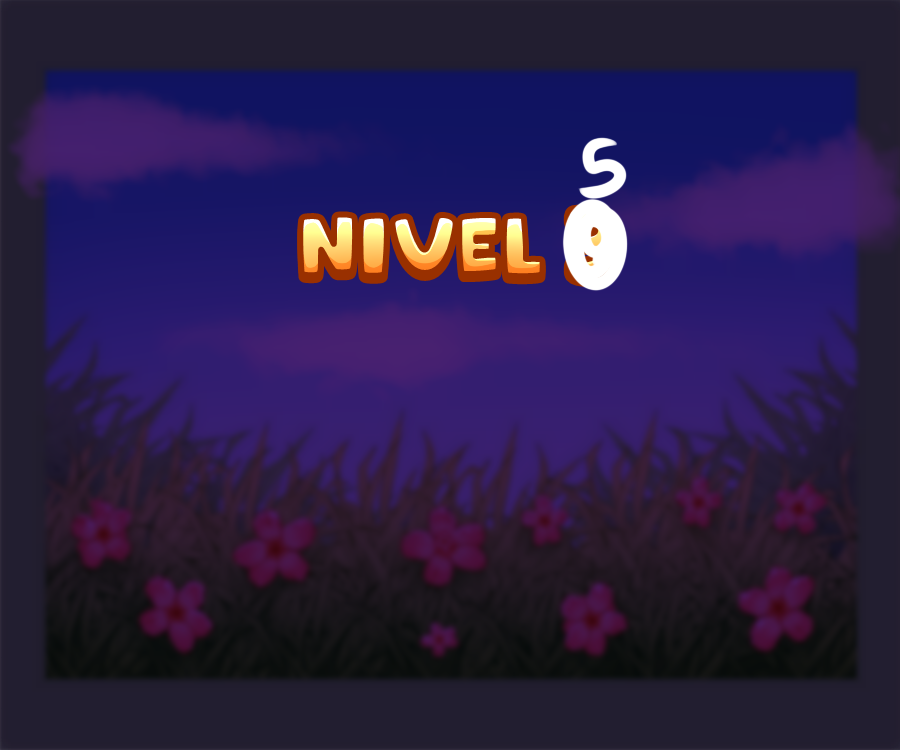
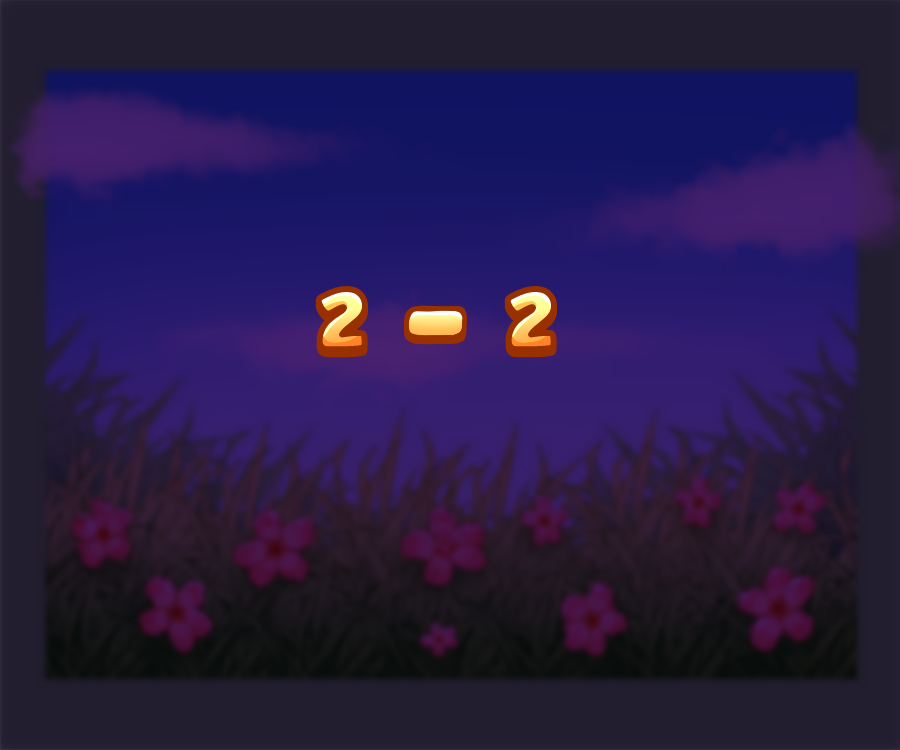
en casa ya nose

Changed region(s): [[0.3111, 0.184, 0.7156, 0.4907]]

diff --git a/src/scenes/guiaprimero.js b/src/scenes/guiaprimero.js
@@ -1,0 +1,92 @@
+import Button from "../scenes/Botones/button.js";
+import Phaser from 'phaser'
+import WebFontFile from './WebFontFile'
+
+export class guiaprimero extends Phaser.Scene {
+
+  constructor() {
+
+    super("guiauno");
+  }
+
+  init (data) {
+    this.score = data.score; 
+    this.nivel=data.nivel;
+  }
+
+    preload()
+    {
+      const fonts = new WebFontFile(this.load, 'Lilita One')
+      this.load.addFile(fonts)
+    }
+
+
+    create() {
+      //agregar if this.nivel para saber que imágen mostrar
+
+      this.add.image(this.cameras.main.centerX, this.cameras.main.centerY, 'fondotuto').setScale(0.83,1);
+      this.add.image(this.cameras.main.centerX, 260, 'tutorial').setScale(0.65,0.75);
+
+      this.add.text(this.cameras.main.centerX, 100, '¡IZA DESBLOQUEÓ UNA NUEVA FORMA PARA SU CAPA!', {
+        fontFamily: 'Lilita One',
+        fontSize: '21px',
+        color: '#F8E71C',
+        stroke: '#853106',
+        strokeThickness: 6,
+        shadow: { offsetX: 0, offsetY: 0, fill: false, blur: 6, stroke: false },
+        resolution: 2
+      }).setOrigin(0.5)
+
+      this.add.text(this.cameras.main.centerX, 180, 'AHORA IZA PUEDE INVOCAR UN ESCUDO', {
+        fontFamily: 'Lilita One',
+        fontSize: '18px',
+        color: '#F8E71C',
+        stroke: '#853106',
+        strokeThickness: 5,
+        shadow: { offsetX: 0, offsetY: 0, fill: false, blur: 6, stroke: false },
+        resolution: 2
+      }).setOrigin(0.5)
+      this.add.text(this.cameras.main.centerX, 240, 'PARA SORTEAR A LAS MOLESTAS AVISPAS', {
+        fontFamily: 'Lilita One',
+        fontSize: '18px',
+        color: '#F8E71C',
+        stroke: '#853106',
+        strokeThickness: 5,
+        shadow: { offsetX: 0, offsetY: 0, fill: false, blur: 6, stroke: false },
+        resolution: 2
+      }).setOrigin(0.5)
+      this.add.text(this.cameras.main.centerX, 290, 'USA LA TECLA E PARA ACTIVAR EL ESCUDO Y ASÍ VOLVERTE INMUNE', {
+        fontFamily: 'Lilita One',
+        fontSize: '18px',
+        color: '#F8E71C',
+        stroke: '#853106',
+        strokeThickness: 5,
+        shadow: { offsetX: 0, offsetY: 0, fill: false, blur: 6, stroke: false },
+        resolution: 2
+      }).setOrigin(0.5)
+      this.add.text(this.cameras.main.centerX, 350, 'LA HABILIDAD TIENE UN TIEMPO DE ENFRIAMIENTO', {
+        fontFamily: 'Lilita One',
+        fontSize: '18px',
+        color: '#F8E71C',
+        stroke: '#853106',
+        strokeThickness: 5,
+        shadow: { offsetX: 0, offsetY: 0, fill: false, blur: 6, stroke: false },
+        resolution: 2
+      }).setOrigin(0.5)
+      this.add.text(this.cameras.main.centerX, 450, '¡ÚSALA SABIAMENTE!', {
+        fontFamily: 'Lilita One',
+        fontSize: '25px',
+        color: '#F8E71C',
+        stroke: '#853106',
+        strokeThickness: 6,
+        shadow: { offsetX: 0, offsetY: 0, fill: false, blur: 6, stroke: false },
+        resolution: 2
+      }).setOrigin(0.5)
+
+      const boton1 = this.add.sprite(this.cameras.main.centerX, 520, 'flechabutton').setInteractive({cursor: "pointer"})
+    boton1.on('pointerover', function(){boton1.setTexture('flechabutton1')})
+    boton1.on('pointerout', function(){boton1.setTexture('flechabutton')})
+    boton1.on('pointerdown', () => {this.scene.start("Juego", {nivel:this.nivel, score:this.score})})
+  }
+
+}

diff --git a/src/scenes/HUD/Interfaz.js b/src/scenes/HUD/Interfaz.js
@@ -1,5 +1,6 @@
 import Phaser from 'phaser'
 
+
 export class Interfaz {
 	 scene;
      score = 0;
@@ -10,12 +11,12 @@ export class Interfaz {
         this.ventana = this.scene.scene.add.image(80,55,"ventana").setScale(0.6)
         this.ventana.scrollFactorX=0
         this.ventana.scrollFactorY=0
-        this.scoreText = this.scene.scene.add.text(58, 52, `Miel: ${
+        this.scoreText = this.scene.scene.add.text(40, 55, `Miel: ${
             this.score}`, {fontFamily: "arial",fontSize: "17px",
           });
           this.scoreText.scrollFactorX=0
           this.scoreText.scrollFactorY=0
-          this.vidaText = this.scene.scene.add.text(90, 25, `Vidas: ${this.vida}`, {fontFamily: "arial", fontSize: "17px",
+          this.vidaText = this.scene.scene.add.text(40, 30, `Vidas: ${this.vida}`, {fontFamily: "arial", fontSize: "17px",
           });
           this.vidaText.scrollFactorX=0
           this.vidaText.scrollFactorY=0

diff --git a/src/scenes/guiasegundo.js b/src/scenes/guiasegundo.js
@@ -1,0 +1,28 @@
+import Button from "../scenes/Botones/button.js";
+
+
+export class guiasegundo extends Phaser.Scene {
+
+  constructor() {
+
+    super("guiados");
+  }
+
+  init (data) {
+    this.score = data.score; 
+    this.nivel=data.nivel;
+  }
+
+  create() {
+    //agregar if this.nivel para saber que imágen mostrar
+
+    this.add.image(this.cameras.main.centerX, this.cameras.main.centerY, 'fondotuto').setScale(0.83,1);
+    this.add.image(this.cameras.main.centerX, 260, 'tutorial').setScale(0.65,0.75);
+
+    const boton1 = this.add.sprite(this.cameras.main.centerX, 520, 'flechabutton').setInteractive({cursor: "pointer"})
+  boton1.on('pointerover', function(){boton1.setTexture('flechabutton1')})
+  boton1.on('pointerout', function(){boton1.setTexture('flechabutton')})
+  boton1.on('pointerdown', () => {this.scene.start("Juego", {nivel:this.nivel, score:this.score})})
+}
+
+}

diff --git a/src/main.js b/src/main.js
@@ -9,6 +9,9 @@ import { Inter } from "../src/scenes/Inter.js";
 import { Lost } from './scenes/lost';
 import { Win } from './scenes/win';
 import { Juego } from './scenes/Juego';
+import { guiaprimero } from './scenes/guiaprimero';
+import { guiasegundo } from './scenes/guiasegundo';
+
 
 const config = {
 	type: Phaser.AUTO,
@@ -33,7 +36,7 @@ const config = {
       debug: true,
     },
   },
-	scene: [ Preloads, Black, MainMenu, Tuto, Creditos, Inter, Juego, Lost, Win]
+	scene: [ Preloads, Black, MainMenu, Tuto, guiaprimero, guiasegundo, Creditos, Inter, Juego, Lost, Win]
 }
 
 export default new Phaser.Game(config)

diff --git a/src/scenes/Inicio.js b/src/scenes/Inicio.js
@@ -11,7 +11,7 @@ export class Black extends Phaser.Scene {
         this.add.image(this.cameras.main.centerX, 190, 'click').setScale(0.65,0.65);
   
         const boton1 = this.add.sprite(this.cameras.main.centerX, this.cameras.main.centerY, 'primero').setInteractive({cursor: "pointer"});
-        boton1.on('pointerdown', () => {this.scene.start("MainMenu")})
+        boton1.on('pointerdown', () => {this.scene.start("guiauno")})
   
     }
   

diff --git a/src/scenes/preloads.js b/src/scenes/preloads.js
@@ -70,6 +70,7 @@ export class Preloads extends Phaser.Scene {
       this.load.image("back2", "assets/imagenes/volvermenu2.png")
       this.load.image("flechas", "assets/imagenes/flechas.png")
       this.load.image("abejas", "assets/imagenes/abejas.png")
+      this.load.image("fondotuto", "assets/imagenes/fondotuto.png")
       
 
       
